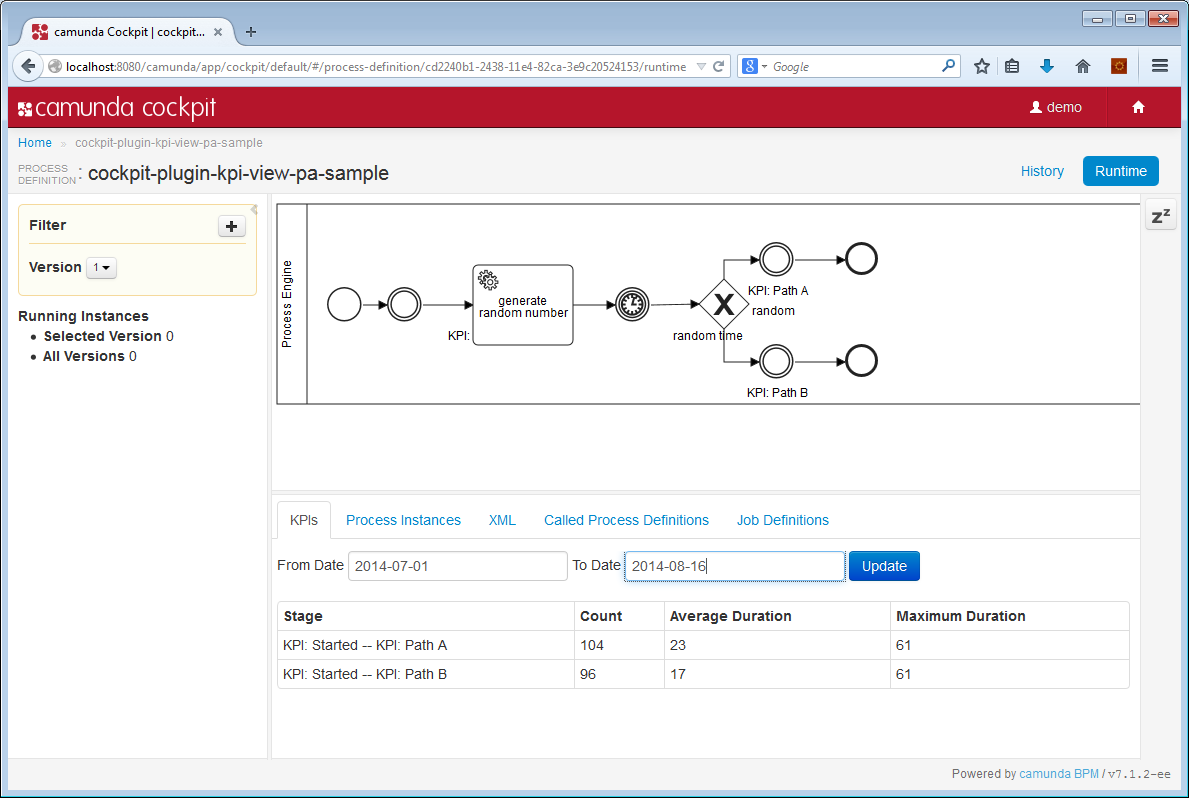
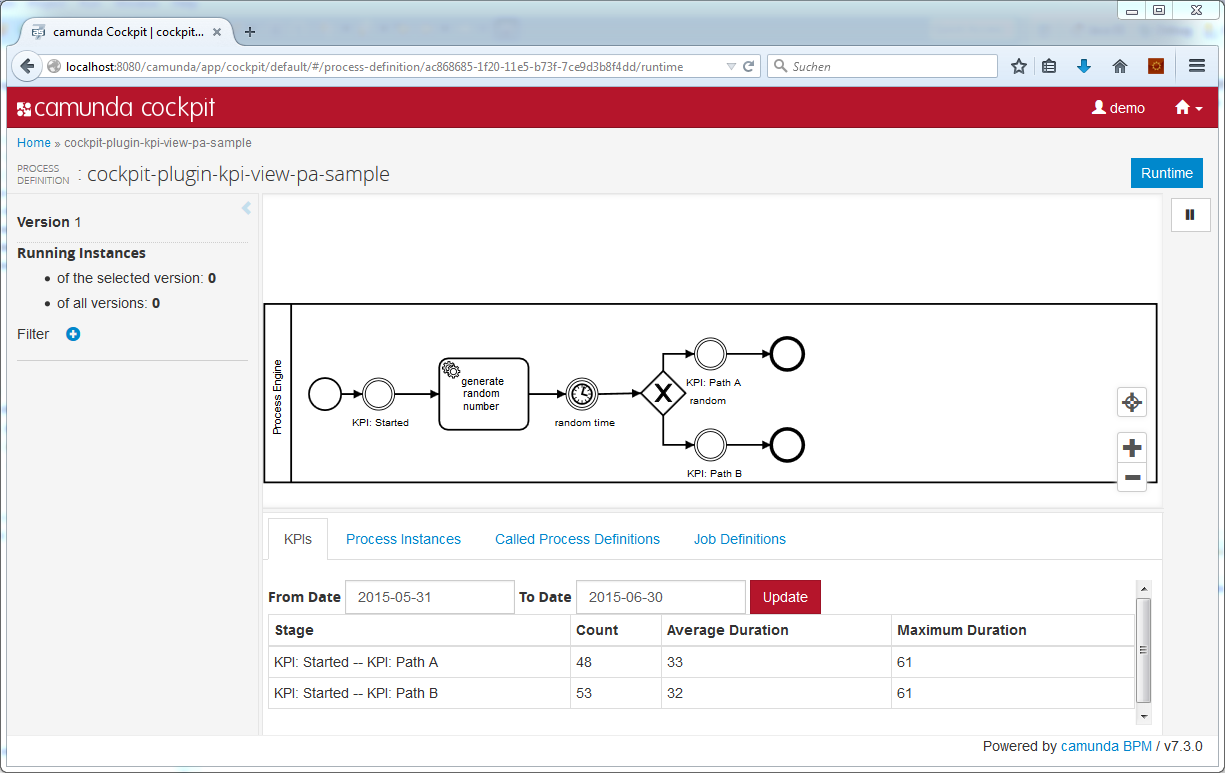
test and documentation

Changed region(s): [[0.0, 0.0, 1.0, 1.0], [0.9024, 0.7762, 0.9647, 0.9004], [0.9024, 0.5589, 0.9647, 0.621]]

diff --git a/cockpit-plugin-kpi-view/README.md b/cockpit-plugin-kpi-view/README.md
@@ -1,0 +1,22 @@
+How to measure special KPIs
+=========================
+
+This cockpit plugin shows how you could count and evaluate special Key Performance Indicators from your processes.
+
+The plugin relies on none intermediate events with a name started by 'KPI:'. The complete logic is in the [database query](src/main/resources/org/camunda/bpm/demo/cockpit/plugin/kpi/queries/kpi-queries.xml) and you can adjust it for your needs.
+
+In this example, the query calculates the time elapsed between KPI-Events while the process instance is executed.
+
+Then it builds a stage for each occurred combinations of KPI-Events and calculates average and maximum duration of all process instances in these stages.
+
+Example Process Application
+---------------------------
+
+An example process application called ['cockpit-plugin-kpi-view-pa-sample'](../cockpit-plugin-kpi-view-pa-sample) is available in this repository. 
+
+Tested Environment
+------------------
+
+The plugin is tested on camunda BPM 7.3.0 with H2 database.
+
+![Screenshot](screenshot.png)

diff --git a/cockpit-plugin-kpi-view-pa-sample/README.md b/cockpit-plugin-kpi-view-pa-sample/README.md
@@ -1,0 +1,20 @@
+How to put KPIs into your process
+=================================
+
+This process applications use intermediate none events to set the milestones used for Key Performance Indicators. Their name has to start with 'KPI: '.
+
+The cockpit plugin ['cockpit-plugin-kpi-view'](../cockpit-plugin-kpi-view) visualizes these KPIs.
+
+This application is built as an example for the cockpit plugin.
+
+After the deployment 100 process instances are started in the `onDeploymentFinished()` event.
+
+Tested environment
+------------------ 
+
+camunda BPM 7.3.0 with H2 database.
+
+The process
+-----------
+
+![The process diagram](src/main/resources/process.png)
